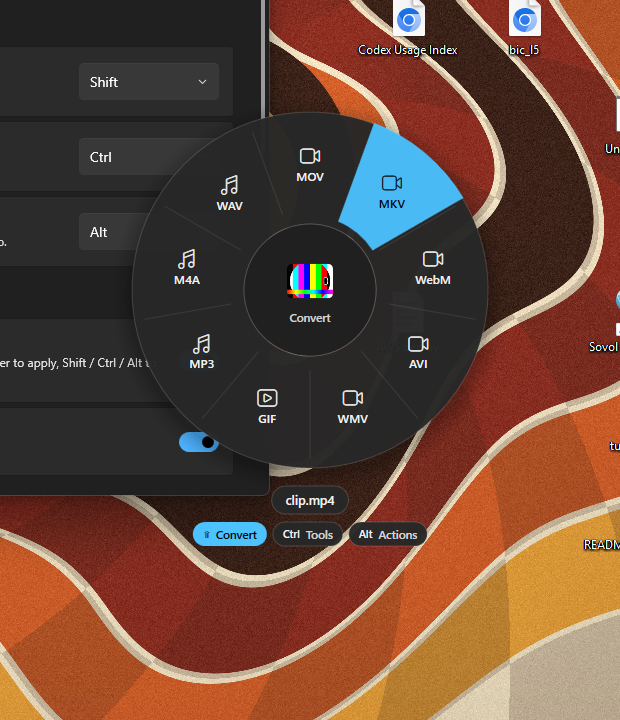
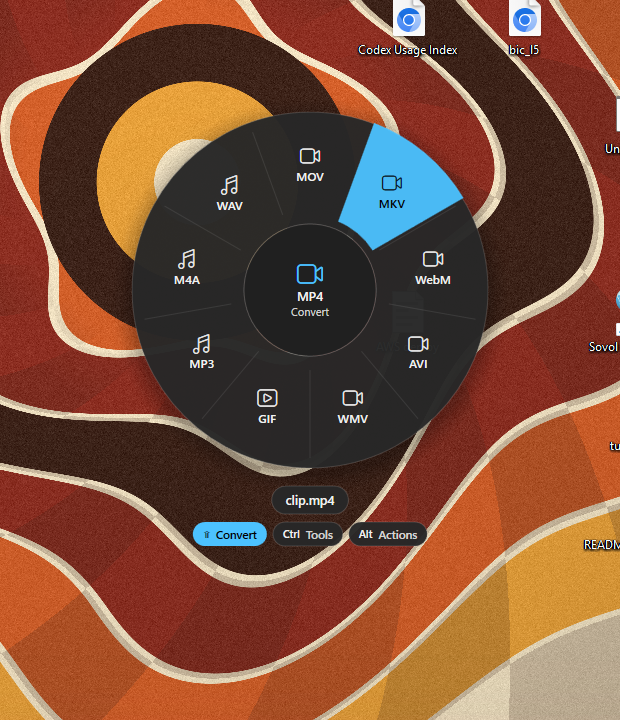
Calmer wheel hub, keep overlays transparent under WPF-UI theming
- Hub shows a file-type glyph and format instead of a shell thumbnail
- Hidden anchor window holds Application.MainWindow so WPF-UI never
  applies its Mica frame to the layered wheel
- Overlay windows keep their own background when the theme is re-applied

Changed region(s): [[0.0, 0.0, 0.4597, 0.7639], [0.4597, 0.3667, 0.5516, 0.4583]]

diff --git a/src/Satsuma/UI/WheelControl.cs b/src/Satsuma/UI/WheelControl.cs
@@ -34,7 +34,8 @@ public sealed class WheelControl : FrameworkElement
     public WheelMode Mode { get; private set; }
     public string Caption { get; set; } = "";
     public string? SubCaption { get; set; }
-    public ImageSource? Thumbnail { get; set; }
+    public string HubGlyph { get; set; } = "";
+    public string HubLabel { get; set; } = "";
     public string? EmptyText { get; set; }
     public bool KeyboardMode { get; set; }
 
@@ -263,18 +264,20 @@ public sealed class WheelControl : FrameworkElement
             var cancel = new FormattedText("Cancel", CultureInfo.CurrentUICulture, FlowDirection.LeftToRight, BodyFace, 12, B(muted), dpi);
             dc.DrawText(cancel, new Point(Cx - cancel.Width / 2, Cy + 10));
         }
-        else if (Thumbnail != null)
+        else
         {
-            double s = 46;
-            var rect = new Rect(Cx - s / 2, Cy - s / 2 - 9, s, s);
-            double ar = Thumbnail.Width / Math.Max(1, Thumbnail.Height);
-            if (ar > 1) rect = new Rect(rect.X, rect.Y + (s - s / ar) / 2, s, s / ar);
-            else if (ar < 1) rect = new Rect(rect.X + (s - s * ar) / 2, rect.Y, s * ar, s);
-            dc.PushClip(new RectangleGeometry(rect, 5, 5));
-            dc.DrawImage(Thumbnail, rect);
-            dc.Pop();
-            var modeText = new FormattedText(ModeName(Mode), CultureInfo.CurrentUICulture, FlowDirection.LeftToRight, LabelFace, 11.5, B(muted), dpi);
-            dc.DrawText(modeText, new Point(Cx - modeText.Width / 2, Cy + 20));
+            // Calm, consistent hub: file-type glyph in the accent color, the format, and the current wheel.
+            var glyph = new FormattedText(HubGlyph, CultureInfo.CurrentUICulture, FlowDirection.LeftToRight, IconFace, 26, B(accent), dpi);
+            var fmt = new FormattedText(HubLabel, CultureInfo.CurrentUICulture, FlowDirection.LeftToRight, LabelFace, 12.5, B(text), dpi)
+            {
+                MaxTextWidth = (InnerR - 14) * 2, MaxLineCount = 1, Trimming = TextTrimming.CharacterEllipsis, TextAlignment = TextAlignment.Center,
+            };
+            var modeText = new FormattedText(ModeName(Mode), CultureInfo.CurrentUICulture, FlowDirection.LeftToRight, BodyFace, 11, B(muted), dpi);
+            double total = glyph.Height + fmt.Height + modeText.Height;
+            double y0 = Cy - total / 2;
+            dc.DrawText(glyph, new Point(Cx - glyph.Width / 2, y0));
+            dc.DrawText(fmt, new Point(Cx - fmt.MaxTextWidth / 2, y0 + glyph.Height));
+            dc.DrawText(modeText, new Point(Cx - modeText.Width / 2, y0 + glyph.Height + fmt.Height));
         }
 
         if (n == 0 && EmptyText != null)

diff --git a/src/Satsuma/UI/WheelWindow.cs b/src/Satsuma/UI/WheelWindow.cs
@@ -191,7 +191,12 @@ public sealed class WheelWindow : Window
         var first = _paths.FirstOrDefault();
         _wheel.Caption = first == null ? "" : Path.GetFileName(first.TrimEnd('\\')) is { Length: > 0 } n ? n : first;
         _wheel.SubCaption = _paths.Count > 1 ? $"+{_paths.Count - 1} more" : null;
-        _wheel.Thumbnail = first == null ? null : ShellThumbnail.Get(first, 96);
+        var kinds = _paths.Select(FileKinds.Of).Distinct().ToList();
+        _wheel.HubGlyph = kinds.Count == 1 ? FileKinds.Glyph(kinds[0]) : "";
+        var exts = _paths.Select(p => Directory.Exists(p) ? "Folder" : FileKinds.Ext(p).ToUpperInvariant()).Distinct().ToList();
+        _wheel.HubLabel = _paths.Count == 0 ? "" : exts.Count == 1 && exts[0].Length > 0
+            ? (_paths.Count > 1 ? $"{_paths.Count} × {exts[0]}" : exts[0])
+            : $"{_paths.Count} items";
     }
 
     void UpdateEmptyText()
